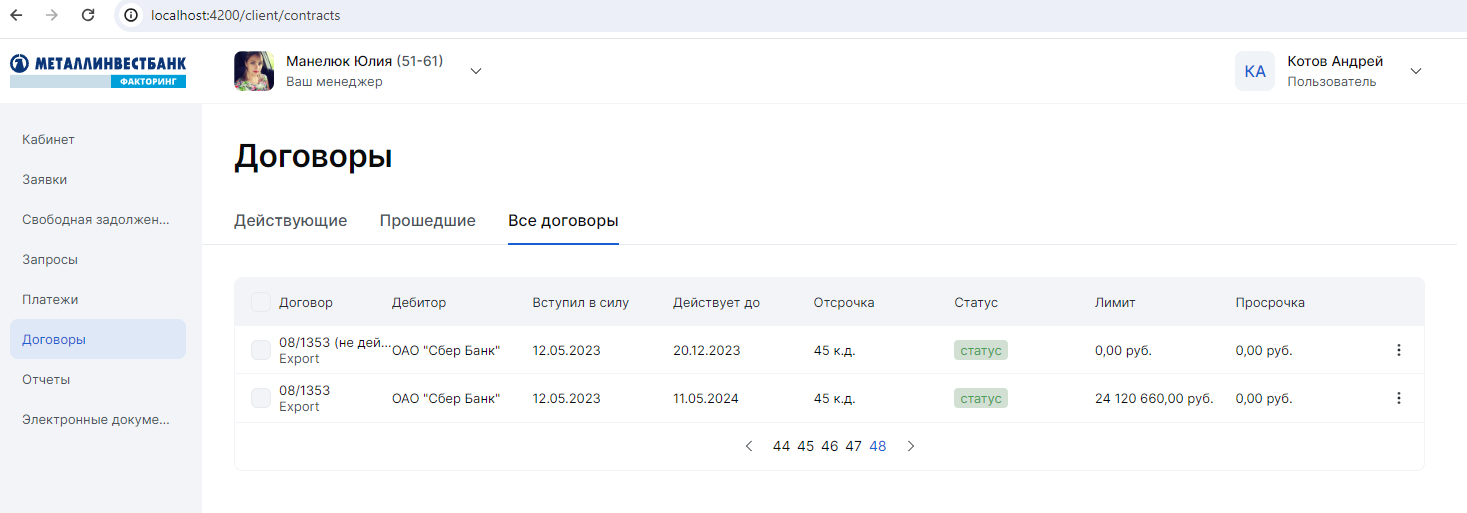
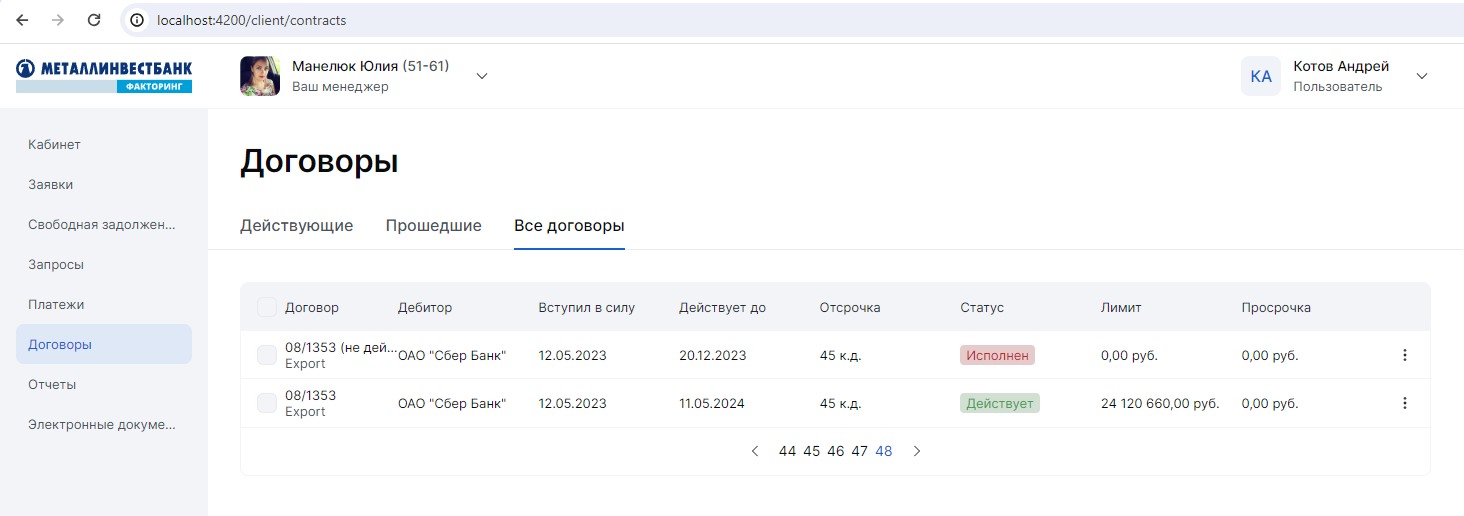
add: all.contracts w data und pagination/drawer

diff --git a/src/app/client/modules/contracts/pages/new-contracts-page/new-contracts-page.component.ts b/src/app/client/modules/contracts/pages/new-contracts-page/new-contracts-page.component.ts
@@ -3,7 +3,10 @@ import {Properties} from 'csstype'
 import {BehaviorSubject, finalize, tap} from 'rxjs'
 import {DeliveryService} from 'src/app/shared/services/share/delivery.service'
 import {ToolsService} from 'src/app/shared/services/tools.service'
-import {DeliveryContractsInterface} from 'src/app/shared/types/delivery/delivery-contracts.interface'
+import {
+	AdvancedDeliveryContracts,
+	DeliveryContractsInterface
+} from 'src/app/shared/types/delivery/delivery-contracts.interface'
 import {TableSelectionEvent} from 'src/app/shared/ui-kit/table/interfaces/table.interface'
 import {TableComponent} from 'src/app/shared/ui-kit/table/table.component'
 import {NewContractsPageDrawerService} from '../../modules/new-contracts-page-drawer/new-contracts-page-drawer.service'
@@ -36,11 +39,15 @@ export class NewContractsPageComponent implements OnInit {
 	public isClosedContracts = false
 	public addStatistics = true
 
+	public isCurrentContract = false
+	public advancedContracts: AdvancedDeliveryContracts[] = []
+	public advancedContractsVisible: AdvancedDeliveryContracts[] = []
+
 	public listOfContracts: DeliveryContractsInterface[] = []
 	public listOfContractsVisible: DeliveryContractsInterface[] = []
 
-	public listOfAllContracts: DeliveryContractsInterface[] = []
-	public listOfAllContractsVisible: DeliveryContractsInterface[] = []
+	// public listOfAllContracts: DeliveryContractsInterface[] = []
+	// public listOfAllContractsVisible: DeliveryContractsInterface[] = []
 
 	public requestsSelection: TableSelectionEvent = {
 		selectedCount: 0,
@@ -82,9 +89,13 @@ export class NewContractsPageComponent implements OnInit {
 			)
 			.pipe(
 				tap(data => {
-					this.listOfAllContracts = data
+					this.advancedContracts = data.map(c => {
+						let d = false
+						Date.parse(c.DateTo) > Date.now() ? (d = false) : (d = true)
+						return {...c, AdvancedContract: d}
+					})
+					console.log('this.advancedContracts :>> ', this.advancedContracts)
 					this.onPageChange(this.currentPage$.value)
-					console.log('this.listOfAllContracts :>> ', this.listOfAllContracts)
 				}),
 				finalize(() => this.loading$.next(false))
 			)
@@ -96,7 +107,6 @@ export class NewContractsPageComponent implements OnInit {
 	}
 
 	onPageChange(page: number) {
-		console.log('		this.currentPage :>> ', this.currentPage$.value)
 		this.currentPage$.next(page)
 
 		const startIndex = (page - 1) * this.PAGINATOR_ITEMS_PER_PAGE
@@ -109,7 +119,7 @@ export class NewContractsPageComponent implements OnInit {
 
 		// this.table.deselect()
 
-		this.listOfAllContractsVisible = this.listOfAllContracts.slice(
+		this.advancedContractsVisible = this.advancedContracts.slice(
 			startIndex,
 			endIndex
 		)

diff --git a/src/app/client/modules/contracts/pages/new-contracts-page/new-contracts-page.component.html b/src/app/client/modules/contracts/pages/new-contracts-page/new-contracts-page.component.html
@@ -334,7 +334,8 @@
 				</ng-container>
 				<ng-template #table3>
 					<mib-table-row
-						*ngFor="let contract of listOfAllContractsVisible; let last = last"
+						(dblclick)="newContractPageDrawer(contract?.ID)"
+						*ngFor="let contract of advancedContractsVisible; let last = last"
 						[underlined]="!last"
 					>
 						<mib-table-cell contracted="true" type="main">
@@ -367,8 +368,17 @@
 						</mib-table-cell>
 						<mib-table-cell>
 							<ng-container table-cell-title>
-								<mib-badge type="filled-success" [extended]="true" size="m"
-									>статус</mib-badge
+								<mib-badge
+									[type]="
+										contract?.AdvancedContract
+											? 'filled-accent'
+											: 'filled-success'
+									"
+									[extended]="true"
+									size="m"
+									>{{
+										contract?.AdvancedContract ? 'Исполнен' : 'Действует'
+									}}</mib-badge
 								></ng-container
 							>
 						</mib-table-cell>
@@ -405,7 +415,7 @@
 				<mib-table-footer [showIsland]="true" [lined]="!(loading$ | async)">
 					<mib-paginator
 						(pageChange)="onPageChange($event)"
-						[totalCount]="listOfAllContracts.length"
+						[totalCount]="advancedContracts.length"
 						[pagesToShow]="PAGINATOR_PAGE_TO_SHOW"
 						[itemsPerPage]="PAGINATOR_ITEMS_PER_PAGE"
 					></mib-paginator>

diff --git a/src/app/client/modules/contracts/modules/new-contracts-page-drawer/new-contracts-page-drawer.component.ts b/src/app/client/modules/contracts/modules/new-contracts-page-drawer/new-contracts-page-drawer.component.ts
@@ -38,7 +38,7 @@ export class NewContractsPageDrawerComponent implements OnInit {
 
 	size = 'm'
 
-	public isClosedContracts = false
+	public isClosedContracts = true
 	public addStatistics = true
 
 	public contract: DeliveryContractsInterface

diff --git a/src/app/shared/types/delivery/delivery-contracts.interface.ts b/src/app/shared/types/delivery/delivery-contracts.interface.ts
@@ -35,3 +35,7 @@ export interface DeliveryContractsInterface {
 		FreeLimit: number
 	}
 }
+
+export interface AdvancedDeliveryContracts extends DeliveryContractsInterface {
+	AdvancedContract?: boolean
+}
